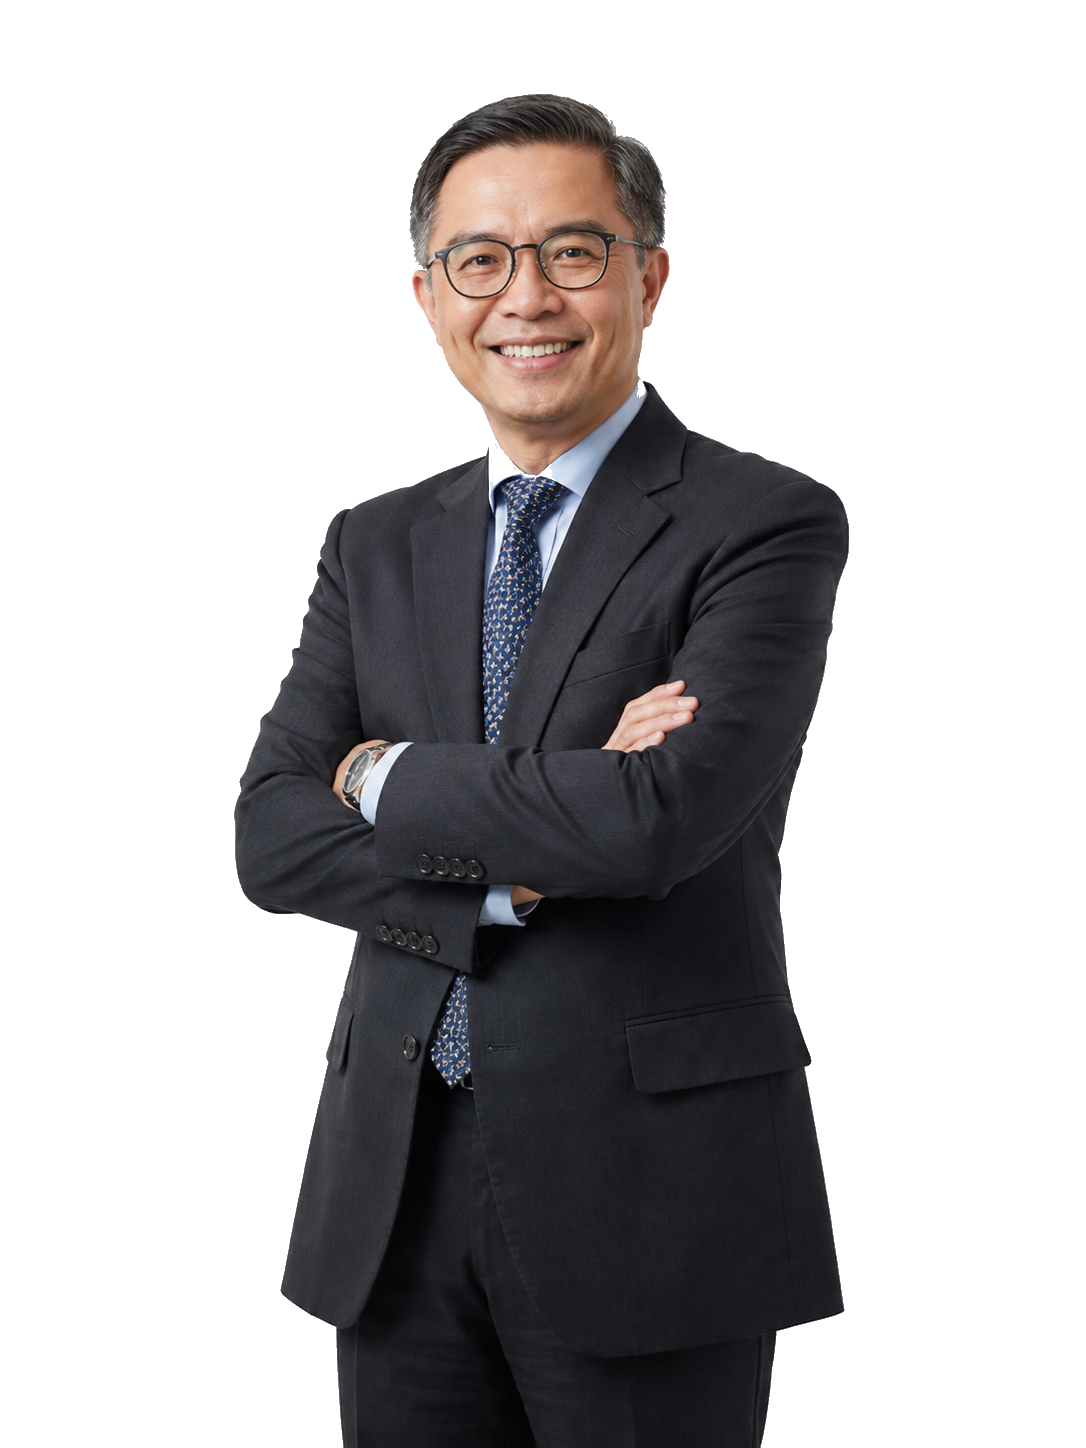
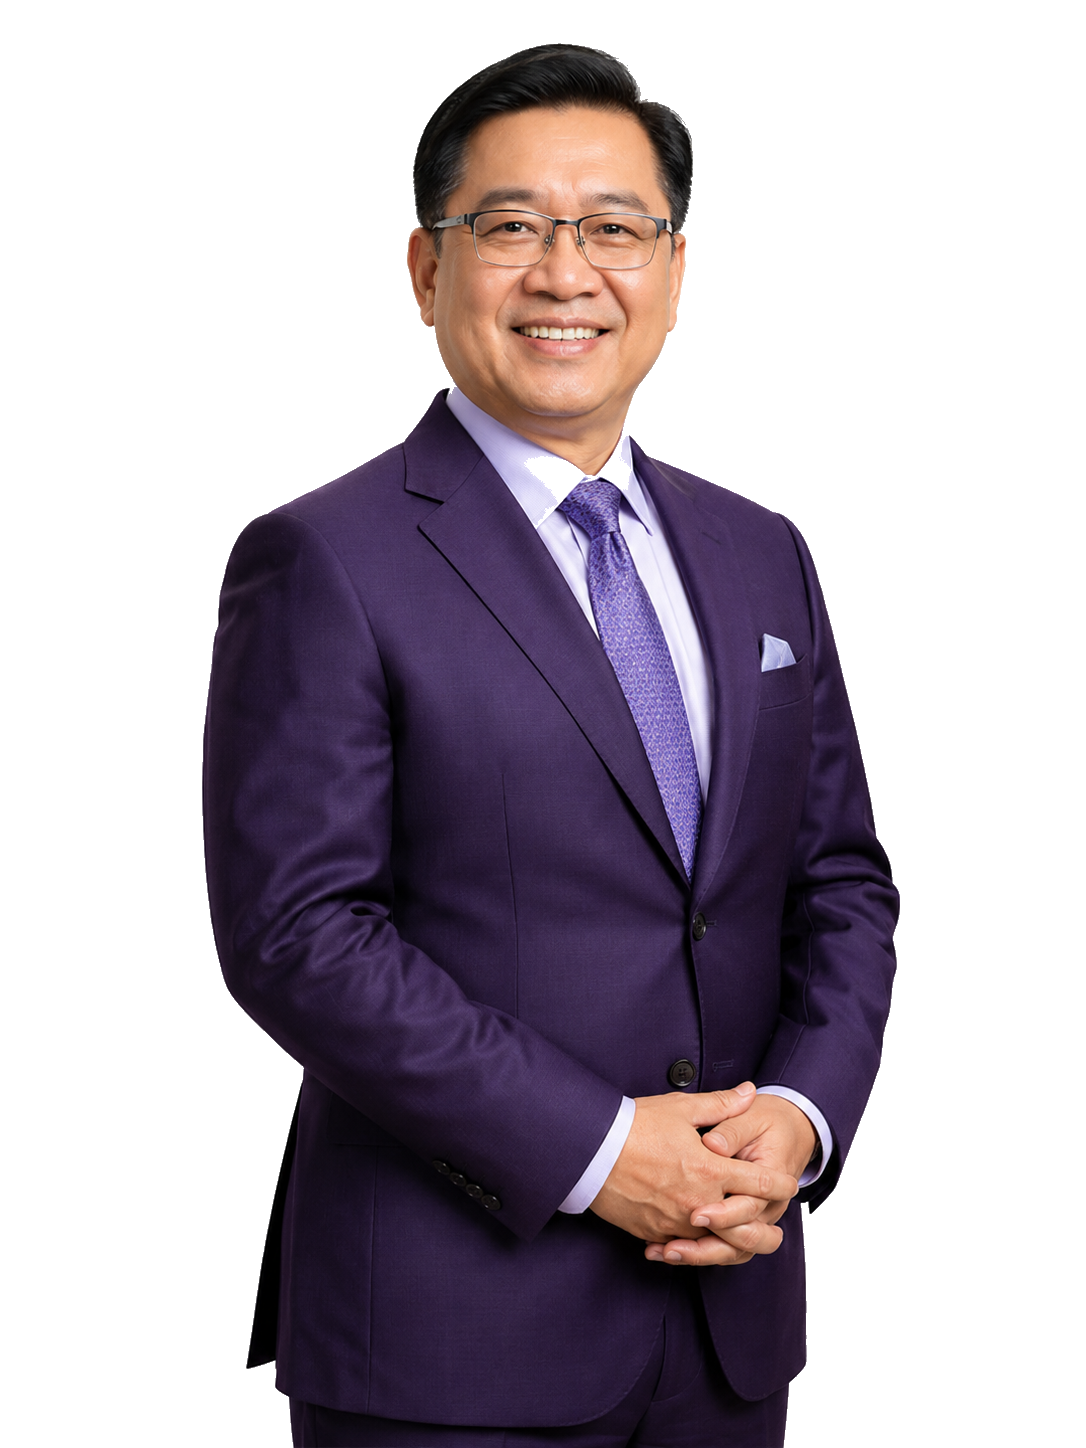
Create Board of Directors profile grid

diff --git a/corporate-governance/board-of-directors/index.html b/corporate-governance/board-of-directors/index.html
@@ -104,7 +104,7 @@
               {
                 "@type": "ListItem",
                 "position": 6,
-                "name": "Antonia Espada"
+                "name": "Antonio Pereira"
               },
               {
                 "@type": "ListItem",
@@ -277,14 +277,14 @@
         <article class="governance-board-card" data-reveal>
           <figure class="governance-board-card-media">
             <img
-              src="../../media/leadership/board/antonia-espada-board-member.webp"
-              alt="Antonia Espada"
+              src="../../media/leadership/board/antonio-pereira-board-member.webp"
+              alt="Antonio Pereira"
               width="1086"
               height="1448"
             />
           </figure>
           <div class="governance-board-card-copy">
-            <h2>Antonia Espada</h2>
+            <h2>Antonio Pereira</h2>
             <p>Board Member</p>
             <span>Uruguay</span>
           </div>

diff --git a/AGENT.md b/AGENT.md
@@ -8,15 +8,19 @@
 
 ## 2026-07-07 Board Of Directors Profile Grid
 
+- Updated the Board of Directors profile grid with the requested replacement portraits for Paul Leung and Antonio Pereira.
+- Replaced the old Antonia Espada board entry and asset reference with Antonio Pereira everywhere on the Board of Directors page.
+- Re-exported Paul Leung and Antonio Pereira as cleaned transparent lossless WebP assets with only border-connected neutral/checker/white background pixels removed.
+
 - Replaced the Board of Directors oversight-copy layout with a compact seven-person profile card grid in the same bright Corporate Governance design system.
-- Added board members in the requested order: Jakapun Viwatkurkul, Mike Zhao, Jeffrey Qiu, Rayyan Al-Assad, Paul Leung, Antonia Espada, and Ben King.
+- Added board members in the requested order: Jakapun Viwatkurkul, Mike Zhao, Jeffrey Qiu, Rayyan Al-Assad, Paul Leung, Antonio Pereira, and Ben King.
 - Used the approved current Jakapun leadership image and exported six cleaned board portraits as transparent lossless WebP assets under `public/media/leadership/board/`.
 - Removed baked-in checker/white board image backgrounds by changing only border-connected neutral background pixels to transparent alpha; preserved each visible person, pose, clothing, proportions, and RGB pixels.
 - Added scoped board-card CSS with small portrait boxes, off-white text panels, subtle borders/shadows, gold accents, bottom-aligned contained images, and responsive desktop/tablet/mobile columns.
 - Confirmed Corporate Governance dropdown and footer order remains Executive Management, Board of Directors, then Code of Conduct.
 - Preserved Executive Management, Code of Conduct, homepage, About page, Business page, News page, header design, footer design, and deployment base paths.
 - Built production and Hostinger/root output, then refreshed the existing `mstar-latest-changes-deploy.zip` in place without creating a new ZIP filename.
-- ZIP verification: 55,796,313 bytes, 111 entries, no wrapper folder, no source/development files, no Windows backslash paths, and the Board page plus six board WebP assets present.
+- ZIP verification: 55,756,748 bytes, 111 entries, no wrapper folder, no source/development files, no Windows backslash paths, and the Board page plus six board WebP assets present.
 - Verification passed: `cmd /c npm.cmd run build`, `cmd /c npm.cmd run lint`, `cmd /c npm.cmd test`, `cmd /c npm.cmd run build:hostinger`, and `cmd /c npm.cmd run weight:audit`.
 
 ## 2026-07-06 Governance Navigation And Leadership Refinement

diff --git a/WEIGHT.md b/WEIGHT.md
@@ -7,18 +7,20 @@
 
 ## 2026-07-07 Board Of Directors Profile Grid Assets
 
+- Replaced the previous Paul Leung board asset with the requested replacement portrait.
+- Replaced the old `antonia-espada-board-member.webp` asset with the requested Antonio Pereira portrait as `antonio-pereira-board-member.webp`.
 - Added six cleaned transparent board portrait assets as lossless WebP files under `public/media/leadership/board/`.
 - Asset sizes:
   - `mike-zhao-board-member.webp`: 586,148 bytes.
   - `jeffrey-qiu-board-member.webp`: 702,818 bytes.
   - `rayyan-al-assad-board-member.webp`: 684,242 bytes.
-  - `paul-leung-board-member.webp`: 601,370 bytes.
-  - `antonia-espada-board-member.webp`: 747,732 bytes.
+  - `paul-leung-board-member.webp`: 717,634 bytes.
+  - `antonio-pereira-board-member.webp`: 591,930 bytes.
   - `ben-king-board-member.webp`: 701,282 bytes.
 - The Board page also reuses the existing approved `jakapun-viwatkurkul-founder-president.webp` leadership image.
 - Refreshed the existing `mstar-latest-changes-deploy.zip` from the Hostinger/root `dist/` build after verification.
 - ZIP filename was not changed and no new ZIP filename was created.
-- ZIP size: 55,796,313 bytes.
+- ZIP size: 55,756,748 bytes.
 - ZIP entries: 111.
 - Exclusion check passed: no wrapper folder, source folders, development files, docs, `node_modules/`, `.git/`, Windows backslash paths, or absolute paths.
 

diff --git a/project.md b/project.md
@@ -2,8 +2,9 @@
 
 ## 2026-07-07 Board Of Directors Profile Grid
 
+- Updated the board grid with replacement portraits for Paul Leung and Antonio Pereira, replacing the previous Antonia Espada entry.
 - Rebuilt the Board of Directors page as a seven-person profile card grid instead of large board oversight copy sections.
-- Added Jakapun Viwatkurkul, Mike Zhao, Jeffrey Qiu, Rayyan Al-Assad, Paul Leung, Antonia Espada, and Ben King in the requested order with role and location text.
+- Added Jakapun Viwatkurkul, Mike Zhao, Jeffrey Qiu, Rayyan Al-Assad, Paul Leung, Antonio Pereira, and Ben King in the requested order with role and location text.
 - Added cleaned transparent board portrait assets under `public/media/leadership/board/` and reused the approved Jakapun leadership image.
 - Added scoped responsive board-card CSS while preserving Executive Management, Code of Conduct, homepage, About, Business, News, navigation order, footer order, and deployment base paths.
 - Rebuilt production/Hostinger output and refreshed the existing `mstar-latest-changes-deploy.zip` in place without creating a new ZIP filename.

diff --git a/DESIGNER.md b/DESIGNER.md
@@ -9,6 +9,7 @@
 
 ### Board Of Directors Profile Grid
 
+- Refined the board grid with the requested replacement portraits for Paul Leung and Antonio Pereira, replacing the old Antonia Espada entry.
 - Updated the Board of Directors page from open oversight text rows to small premium profile cards so it visually matches the Executive Management portrait-box language at a board-grid scale.
 - Each board card uses a contained top portrait area, bottom-aligned full-person image fitting, a white/off-white text panel, bold name, role, location, restrained gold accent, subtle border, and soft institutional shadow.
 - Added seven board members in the requested order while keeping large biographies off the page.